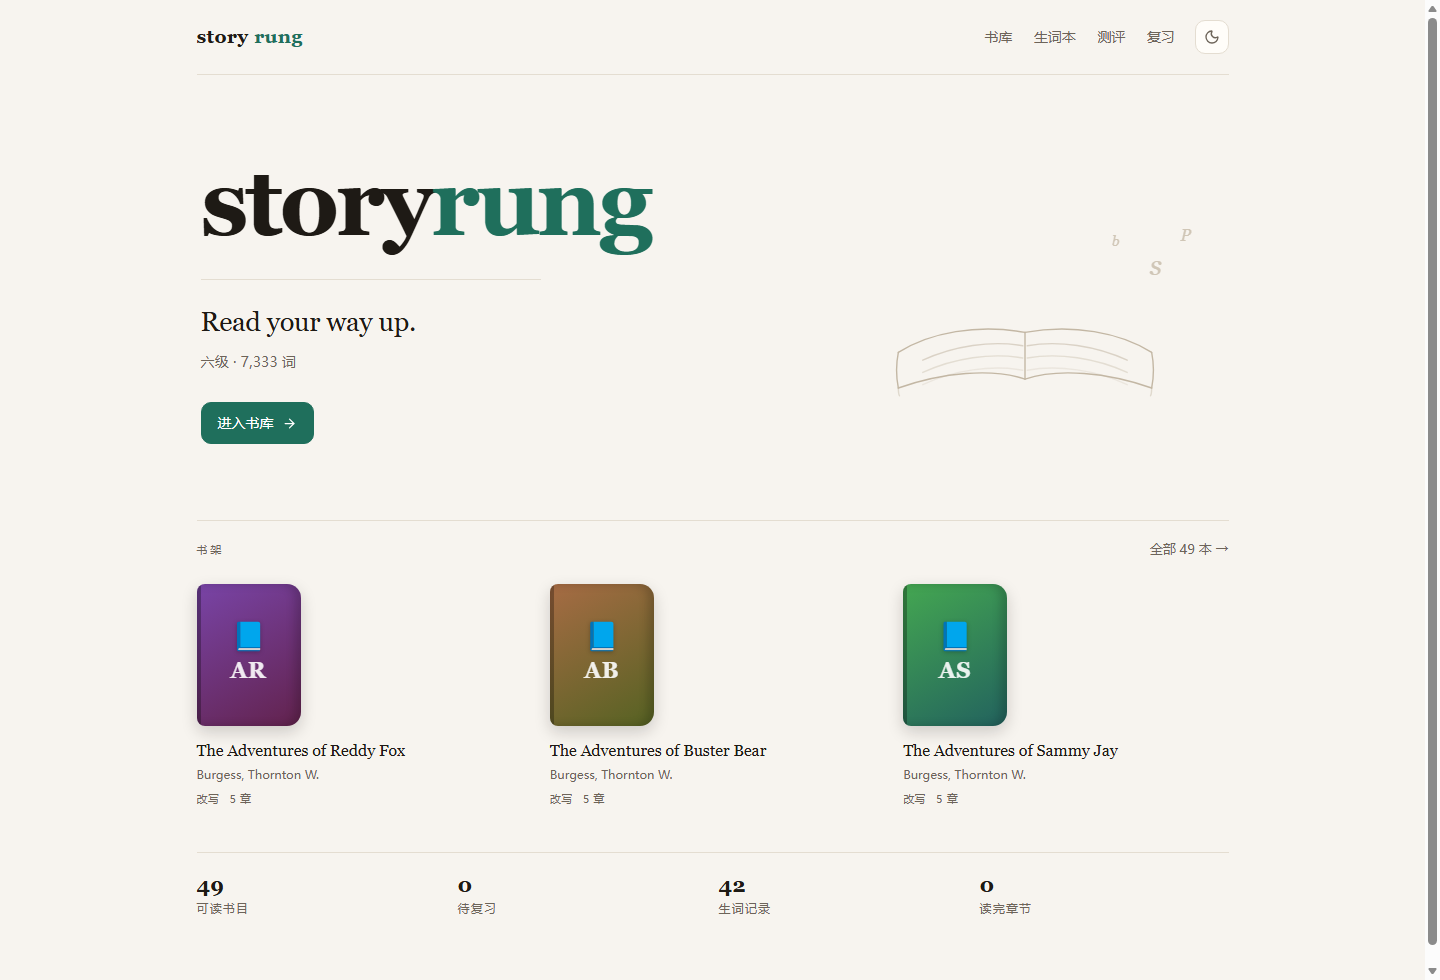
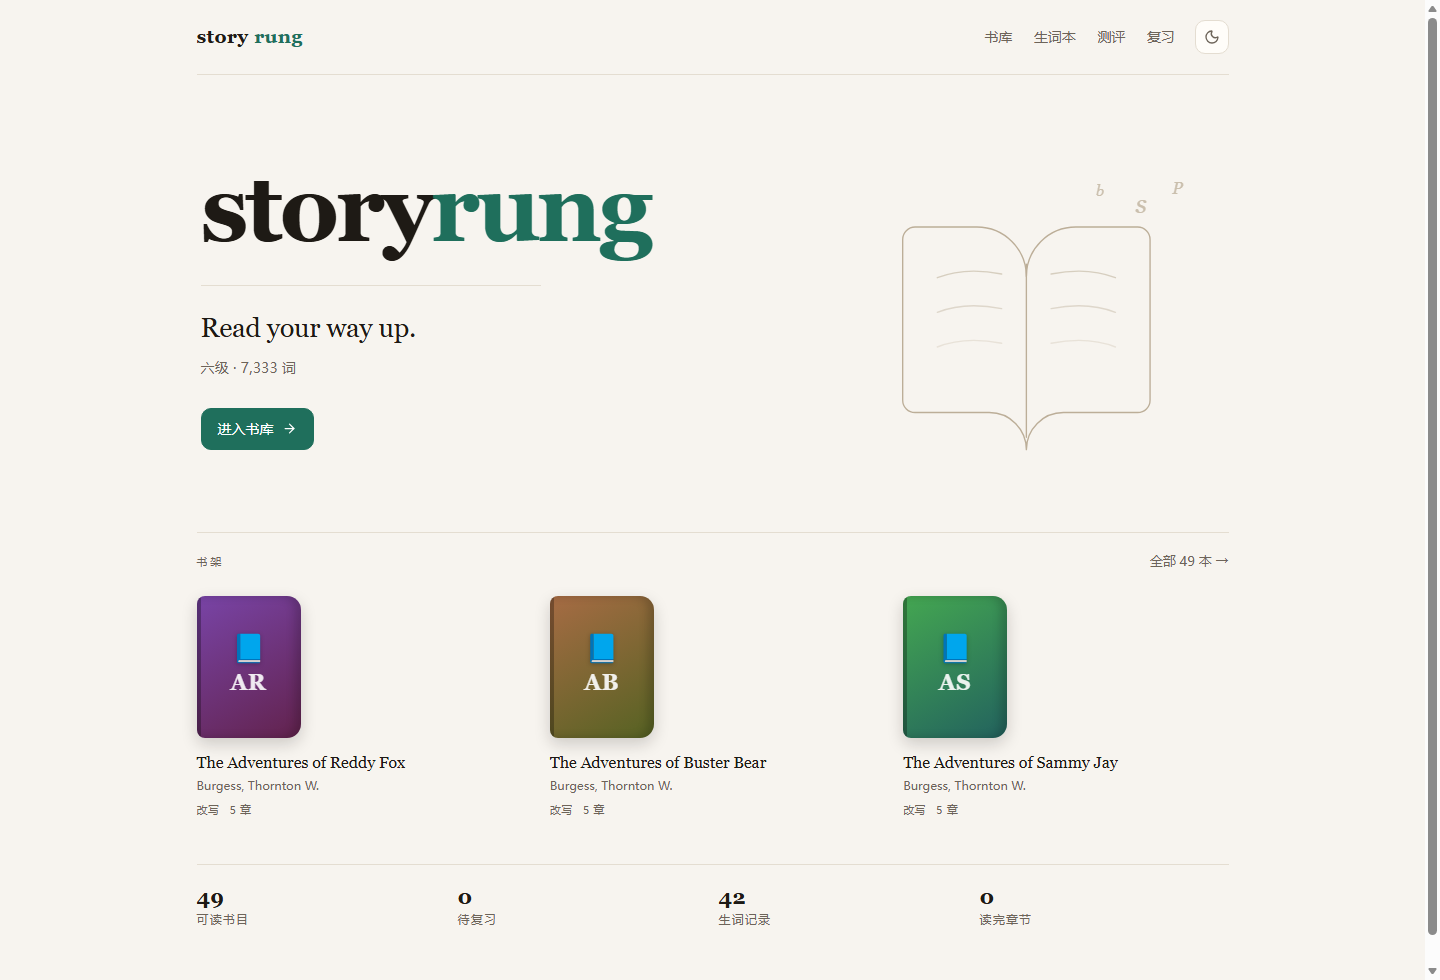
fix(web): 首页线描书改成完整摊开的书本
之前那版只画了页面的上半截弧线，看起来像被裁掉一半。
改成两页 + 中缝书脊 + 页内行线 + 底部书脊缺口的标准摊书轮廓，
整体放大到 460px 宽，描边略深；移动端 260px。

diff --git a/apps/web/components/HeroArt.tsx b/apps/web/components/HeroArt.tsx
@@ -1,6 +1,6 @@
 /**
  * 首页右侧的线描书：零图片资源，纯 SVG 描边，跟随主题色。
- * 几枚漂浮字母呼应 "story / rung" 的拼读感。
+ * 用一本摊开的书（两页 + 书脊 + 页内行线），几枚漂浮字母呼应 "story / rung" 的拼读感。
  */
 export default function HeroArt() {
   return (
@@ -9,38 +9,28 @@ export default function HeroArt() {
       viewBox="0 0 360 240"
       fill="none"
       stroke="currentColor"
-      strokeWidth="1.25"
       strokeLinecap="round"
       strokeLinejoin="round"
       aria-hidden
     >
-      <g className="hero-art-book">
-        {/* 左页 */}
-        <path d="M180 148c-42-8-86 0-114 18" />
-        <path d="M66 166c-2 10-2 22 0 32" />
-        <path d="M66 198c40-14 84-18 114-8" />
-        {/* 右页 */}
-        <path d="M180 148c42-8 86 0 114 18" />
-        <path d="M294 166c2 10 2 22 0 32" />
-        <path d="M294 198c-40-14-84-18-114-8" />
+      <g className="hero-art-book" transform="translate(80 20) scale(10)" strokeWidth="0.11">
         {/* 书脊 */}
-        <path d="M180 148v42" />
+        <path d="M12 6.5v14" />
+        {/* 左右两页外轮廓 */}
+        <path d="M3 18.5a1 1 0 0 1-1-1V4.5a1 1 0 0 1 1-1h5a4 4 0 0 1 4 4 4 4 0 0 1 4-4h5a1 1 0 0 1 1 1v13a1 1 0 0 1-1 1h-6a3 3 0 0 0-3 3 3 3 0 0 0-3-3z" />
         {/* 左页行线 */}
-        <path d="M178 160c-28-5-62 0-90 13" opacity="0.55" />
-        <path d="M178 171c-28-5-62 0-90 13" opacity="0.38" />
-        <path d="M178 182c-28-5-62 0-90 13" opacity="0.22" />
+        <path d="M4.8 7.6c1.5-.6 3.2-.7 5.2-.3" opacity="0.55" />
+        <path d="M4.8 10.4c1.5-.6 3.2-.7 5.2-.3" opacity="0.42" />
+        <path d="M4.8 13.2c1.5-.6 3.2-.7 5.2-.3" opacity="0.26" />
         {/* 右页行线 */}
-        <path d="M182 160c28-5 62 0 90 13" opacity="0.55" />
-        <path d="M182 171c28-5 62 0 90 13" opacity="0.38" />
-        <path d="M182 182c28-5 62 0 90 13" opacity="0.22" />
-        {/* 书页厚度 */}
-        <path d="M66 198c0 3 0 5 1 7" opacity="0.45" />
-        <path d="M294 198c0 3 0 5-1 7" opacity="0.45" />
+        <path d="M19.2 7.6c-1.5-.6-3.2-.7-5.2-.3" opacity="0.55" />
+        <path d="M19.2 10.4c-1.5-.6-3.2-.7-5.2-.3" opacity="0.42" />
+        <path d="M19.2 13.2c-1.5-.6-3.2-.7-5.2-.3" opacity="0.26" />
       </g>
       <g className="hero-art-letters" stroke="none">
-        <text x="292" y="96" fontSize="26">s</text>
-        <text x="320" y="66" fontSize="15">P</text>
-        <text x="258" y="70" fontSize="13">b</text>
+        <text x="288" y="44" fontSize="22">s</text>
+        <text x="318" y="28" fontSize="14">P</text>
+        <text x="256" y="30" fontSize="12">b</text>
       </g>
     </svg>
   );

diff --git a/apps/web/app/theme.css b/apps/web/app/theme.css
@@ -159,8 +159,8 @@ body {
 .home-art {
   justify-self: end;
   width: 100%;
-  max-width: 400px;
-  color: #c3b7a4;
+  max-width: 460px;
+  color: #bcae98;
 }
 
 .hero-art-svg {
@@ -613,8 +613,8 @@ body {
     font-size: 22px;
   }
   .home-art {
-    max-width: 220px;
-    opacity: 0.7;
+    max-width: 260px;
+    opacity: 0.85;
   }
   .shelf-grid {
     grid-template-columns: 1fr;
